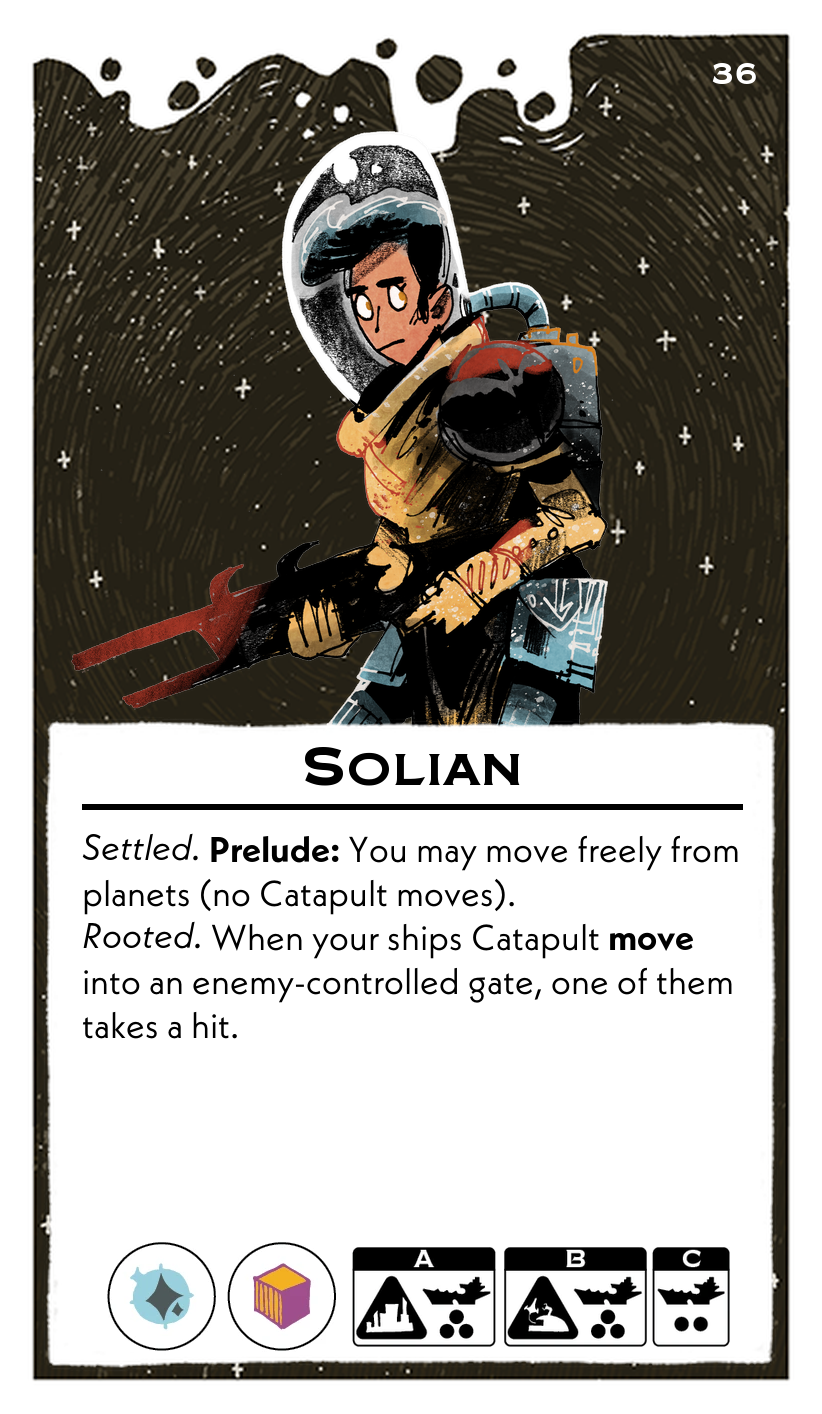
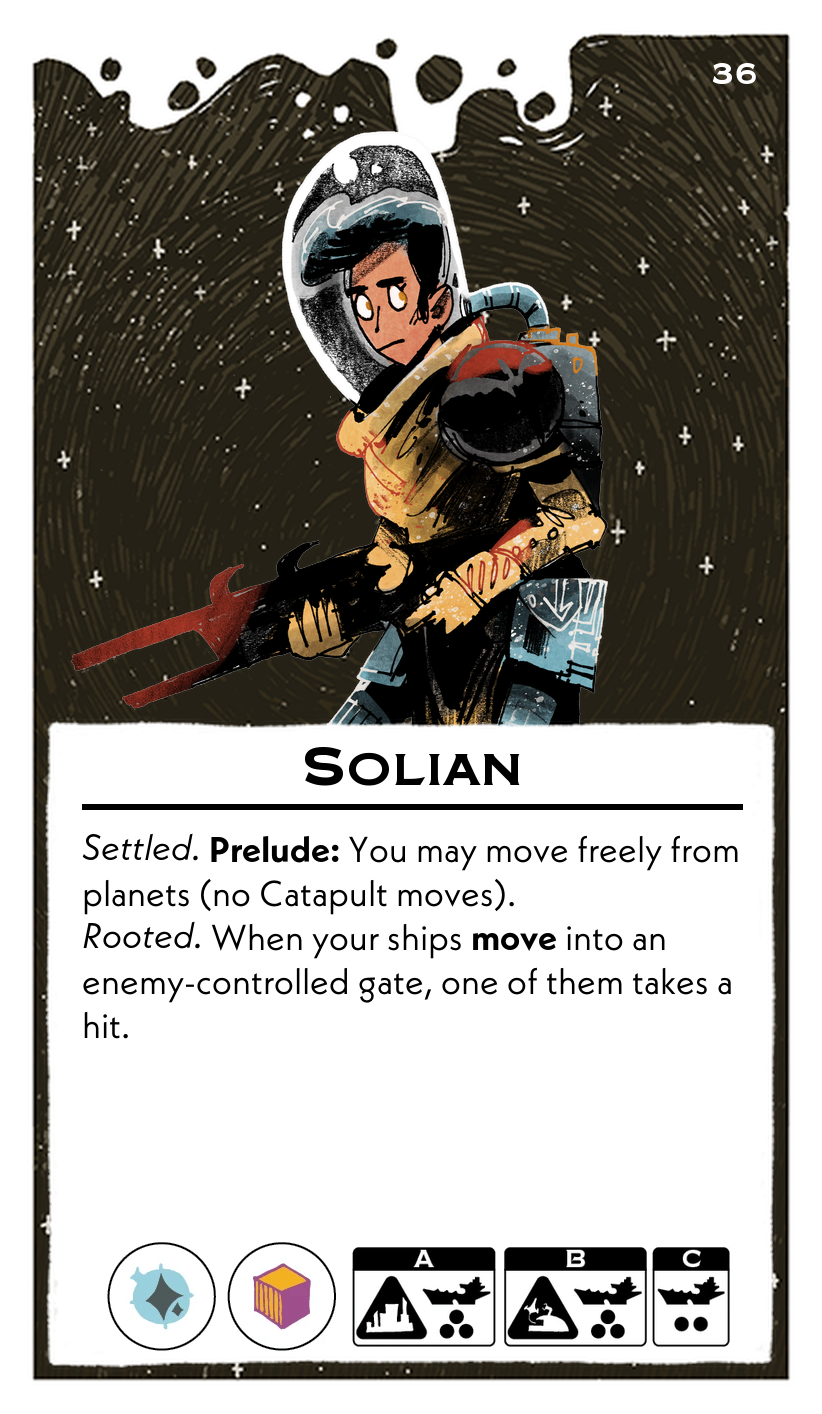
m

Changed region(s): [[0.0912, 0.6535, 0.882, 0.7468]]

diff --git a/scripts/leadersFormatted.py b/scripts/leadersFormatted.py
@@ -554,7 +554,7 @@ leaders = [
         "name": "Solian",
         "abilities": (
             "*Settled.* **Prelude:** You may move freely from planets (no Catapult moves).\n"
-            "*Rooted.* When your ships Catapult **move** into an enemy-controlled gate, one of them takes a hit."
+            "*Rooted.* When your ships **move** into an enemy-controlled gate, one of them takes a hit."
         ),
         "resources": ["Relic", "Material"],
         "setup": {
